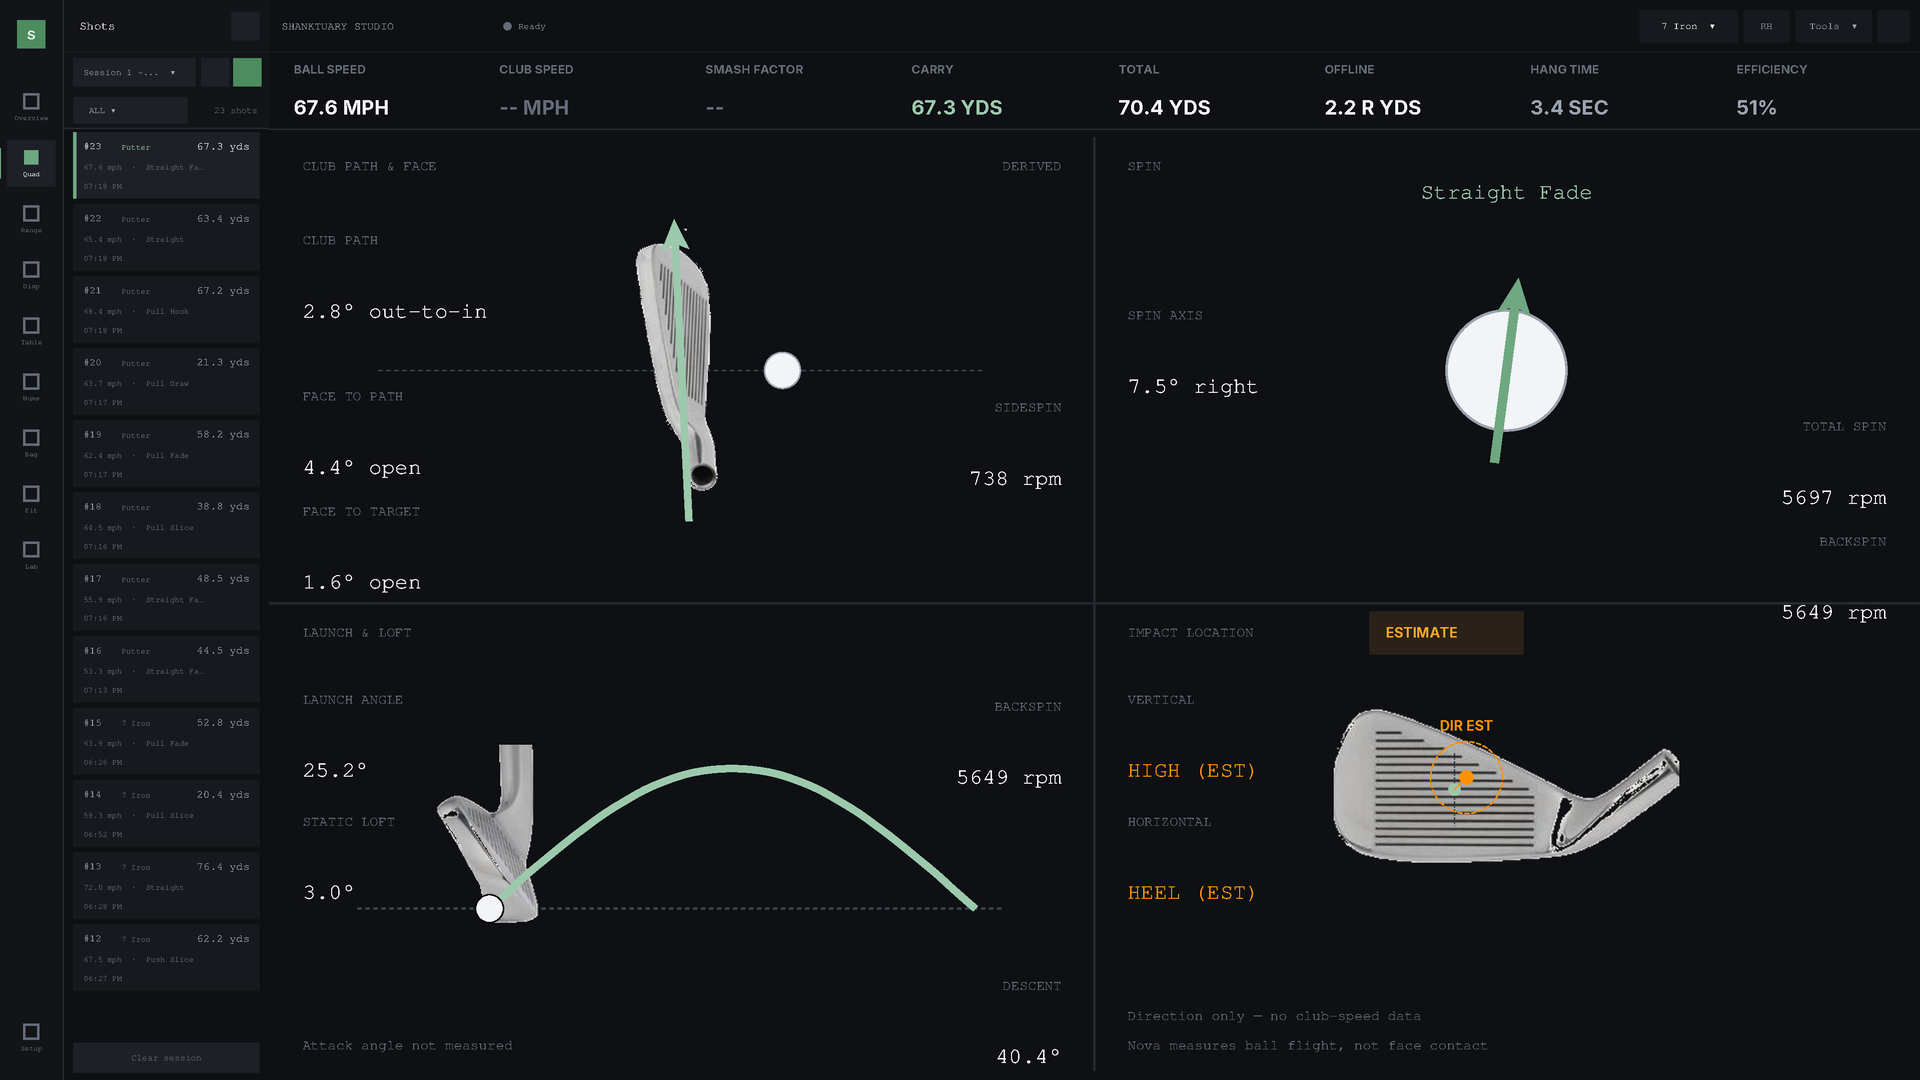
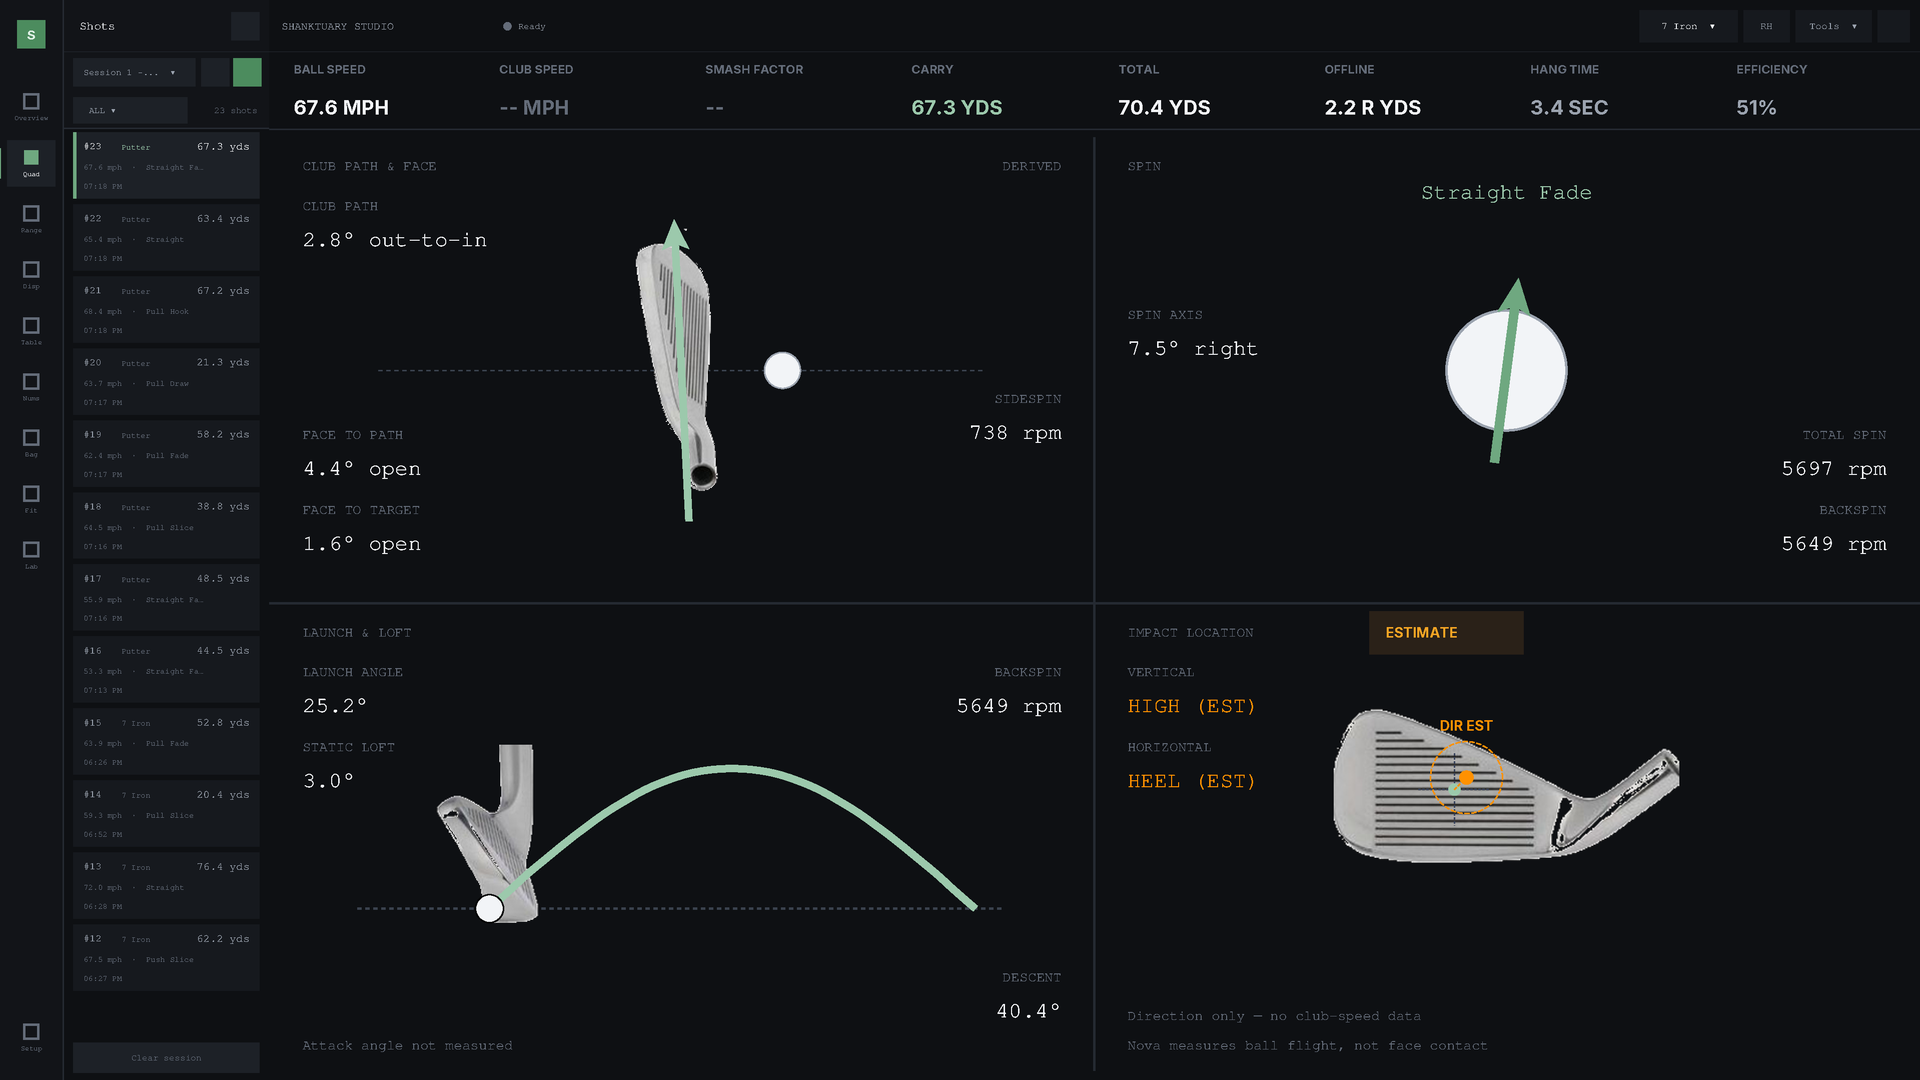
style(quad): tighten caption/value pairs to match the concept
The previous overlap fix over-corrected. It kept anchor="w", which centres
text vertically on its y, so clearing the overlap meant a gap covering half
the caption's height plus half the value's -- 37px, which pushed the two
apart into separate-looking elements.

Anchoring each pair from its top ("nw"/"ne") makes the gap simply the
caption's line height, so the caption and value read as one unit the way
newconcept.png shows. Measured: the gap between "CLUB PATH" and its value
goes from 34px to 1px.

Row positions now stack by a computed pair height rather than hand-tuned
pixel offsets, so the panels stay correct across the 0.85-1.85 font_scale
range instead of only at the size they were eyeballed at.

Line heights come from tkfont metrics("linespace") rather than a
points-to-pixels guess.

Still zero overlapping text pairs.

diff --git a/shanktuary_performance_studio.py b/shanktuary_performance_studio.py
@@ -4742,19 +4742,31 @@ class ShanktuaryApp:
         cap_f = (theme.ui_font(), max(7, int(8 * font_scale)))
         val_f = (theme.ui_font(), max(9, int(12 * font_scale)))
 
-        # anchor="w" centres text VERTICALLY on its y, so each bbox extends
-        # +-half its height. The gap therefore needs half the caption plus
-        # half the value, not the nominal point sizes: an 8pt caption renders
-        # ~29px tall and a 12pt value ~45px, i.e. 14.5 + 22.5 = 37px minimum.
-        _PX_PER_PT = 3.7
-        annot_gap = int((cap_f[1] + val_f[1]) * _PX_PER_PT * 0.5) + 5
+        # Anchor the pair from its TOP ("nw"/"ne") rather than its vertical
+        # centre ("w"/"e"). With centre anchoring the gap has to cover half of
+        # each item's height, which forces the caption and value apart; the
+        # concept has them tight, as one unit. Top-anchoring makes the gap
+        # simply the caption's line height.
+        try:
+            import tkinter.font as _tkf
+            _cap_line = _tkf.Font(family=cap_f[0], size=cap_f[1]).metrics("linespace")
+        except Exception:
+            _cap_line = int(cap_f[1] * 1.4)
+        try:
+            _val_line = _tkf.Font(family=val_f[0], size=val_f[1]).metrics("linespace")
+        except Exception:
+            _val_line = int(val_f[1] * 1.4)
+        annot_gap = _cap_line + 1
+        # Height of one caption+value unit, for stacking consecutive pairs.
+        pair_h = annot_gap + _val_line
 
         def annot(ax, ay, cap, val, anchor="w", col=None):
+            a = "ne" if anchor == "e" else "nw"
             self.canvas.create_text(ax, ay, text=cap, fill=theme.TEXT_3,
-                                    font=cap_f, anchor=anchor)
+                                    font=cap_f, anchor=a)
             self.canvas.create_text(ax, ay + annot_gap, text=val,
                                     fill=col or theme.TEXT, font=val_f,
-                                    anchor=anchor)
+                                    anchor=a)
 
         def panel_cap(px, py, text, tag=None, tag_col=None):
             cid = self.canvas.create_text(px, py, text=text, fill=theme.TEXT_3,
@@ -4781,7 +4793,7 @@ class ShanktuaryApp:
         path_val = f"{abs(club_path):.1f}° " + (
             ("in-to-out" if club_path < 0 else "out-to-in") if self.is_left_handed
             else ("in-to-out" if club_path > 0 else "out-to-in"))
-        annot(gut_l, q1_top + int(56 * font_scale), "CLUB PATH", path_val)
+        annot(gut_l, q1_top + int(34 * font_scale), "CLUB PATH", path_val)
         self.canvas.create_line(q1_cx - int(150 * scale), q1_cy, q1_cx + int(150 * scale), q1_cy, fill=theme.GUIDE, width=1, dash=(4, 4))
         
         overhead_h = int(140 * scale)
@@ -4801,11 +4813,12 @@ class ShanktuaryApp:
 
         # Keep clear of the next panel's caption: the value sits ~22px below
         # its own y, so the last row needs that much clearance from q1_bot.
-        annot(gut_l, q1_bot - int(112 * font_scale), "FACE TO PATH",
+        face_y = q1_bot - pair_h * 2 - int(14 * font_scale)
+        annot(gut_l, face_y, "FACE TO PATH",
               f"{abs(face_to_path):.1f}° {'open' if face_to_path > 0 else 'closed'}")
-        annot(gut_l, q1_bot - int(50 * font_scale), "FACE TO TARGET",
+        annot(gut_l, face_y + pair_h, "FACE TO TARGET",
               f"{abs(face_to_target):.1f}° {'open' if face_to_target > 0 else 'closed'}")
-        annot(gut_r, q1_cy + int(20 * font_scale), "SIDESPIN",
+        annot(gut_r, q1_cy + int(12 * font_scale), "SIDESPIN",
               f"{int(abs(sidespin))} rpm", anchor="e")
 
         # Quadrant 2 (Bottom-Left): Trajectory Arc
@@ -4818,12 +4831,12 @@ class ShanktuaryApp:
         bot_elev_str = f"Descent: {descent:.1f}°   |   Backspin: {int(backspin)} rpm"
 
         panel_cap(gut_l, q2_top + int(16 * font_scale), "LAUNCH & LOFT")
-        annot(gut_l, q2_top + int(52 * font_scale), "LAUNCH ANGLE",
+        annot(gut_l, q2_top + int(34 * font_scale), "LAUNCH ANGLE",
               f"{vert_launch:.1f}°")
         _c = self.get_bag_club((self.current_shot or {}).get("club") or self.current_club) or {}
         _lf = float(_c.get("loft_deg") or 0.0)
         if _lf > 0:
-            annot(gut_l, q2_top + int(118 * font_scale), "STATIC LOFT",
+            annot(gut_l, q2_top + int(34 * font_scale) + pair_h, "STATIC LOFT",
                   f"{_lf:.1f}°")
         self.canvas.create_line(q2_cx - int(160 * scale), ground_y, q2_cx + int(160 * scale), ground_y, fill=theme.GUIDE, width=2, dash=(4, 4))
         
@@ -4846,9 +4859,9 @@ class ShanktuaryApp:
         ball_r2 = int(7 * scale)
         self.canvas.create_oval(q2_cx - side_offset_x - ball_r2, ground_y - ball_r2, q2_cx - side_offset_x + ball_r2, ground_y + ball_r2, fill=theme.TEXT)
 
-        annot(gut_r, q2_top + int(56 * font_scale), "BACKSPIN",
+        annot(gut_r, q2_top + int(34 * font_scale), "BACKSPIN",
               f"{int(backspin)} rpm", anchor="e")
-        annot(gut_r, q2_bot - int(46 * font_scale), "DESCENT",
+        annot(gut_r, q2_bot - pair_h - int(14 * font_scale), "DESCENT",
               f"{descent:.1f}°", anchor="e")
         # The Nova measures ball flight only -- say so rather than leave a gap.
         self.canvas.create_text(gut_l, q2_bot - int(14 * font_scale),
@@ -4890,11 +4903,12 @@ class ShanktuaryApp:
         spin_line1 = f"Spin Axis: {abs(spin_axis):.1f}° {'R' if spin_axis > 0 else 'L'}   |   Sidespin: {int(sidespin)} rpm"
         spin_line2 = f"Total Spin: {int(total_spin)} rpm   |   Opt. Potential: {opt_max:.1f} YDS"
 
-        annot(gut_l3, q3_cy - int(30 * font_scale), "SPIN AXIS",
+        annot(gut_l3, q3_cy - int(34 * font_scale), "SPIN AXIS",
               f"{abs(spin_axis):.1f}° {'right' if spin_axis > 0 else 'left'}")
-        annot(gut_r3, q3_bot - int(96 * font_scale), "TOTAL SPIN",
+        spin_y = q3_bot - pair_h * 2 - int(14 * font_scale)
+        annot(gut_r3, spin_y, "TOTAL SPIN",
               f"{int(total_spin)} rpm", anchor="e")
-        annot(gut_r3, q3_bot - int(34 * font_scale), "BACKSPIN",
+        annot(gut_r3, spin_y + pair_h, "BACKSPIN",
               f"{int(backspin)} rpm", anchor="e")
 
         # Quadrant 4 (Bottom-Right): High-Precision Face Impact Location & Strike Coordinates
@@ -5187,10 +5201,11 @@ class ShanktuaryApp:
                                          fill="#2A2118", outline="")
             self.canvas.tag_raise(chip_id)
 
-        annot(gut_l4, q4_top + int(52 * font_scale), "VERTICAL",
+        imp_y = q4_top + int(34 * font_scale)
+        annot(gut_l4, imp_y, "VERTICAL",
               v_text.split(" ", 1)[-1] if " " in v_text else v_text,
               col=v_badge_col)
-        annot(gut_l4, q4_top + int(118 * font_scale), "HORIZONTAL",
+        annot(gut_l4, imp_y + pair_h, "HORIZONTAL",
               h_text.split(" ", 1)[-1] if " " in h_text else h_text,
               col=h_badge_col)
 
